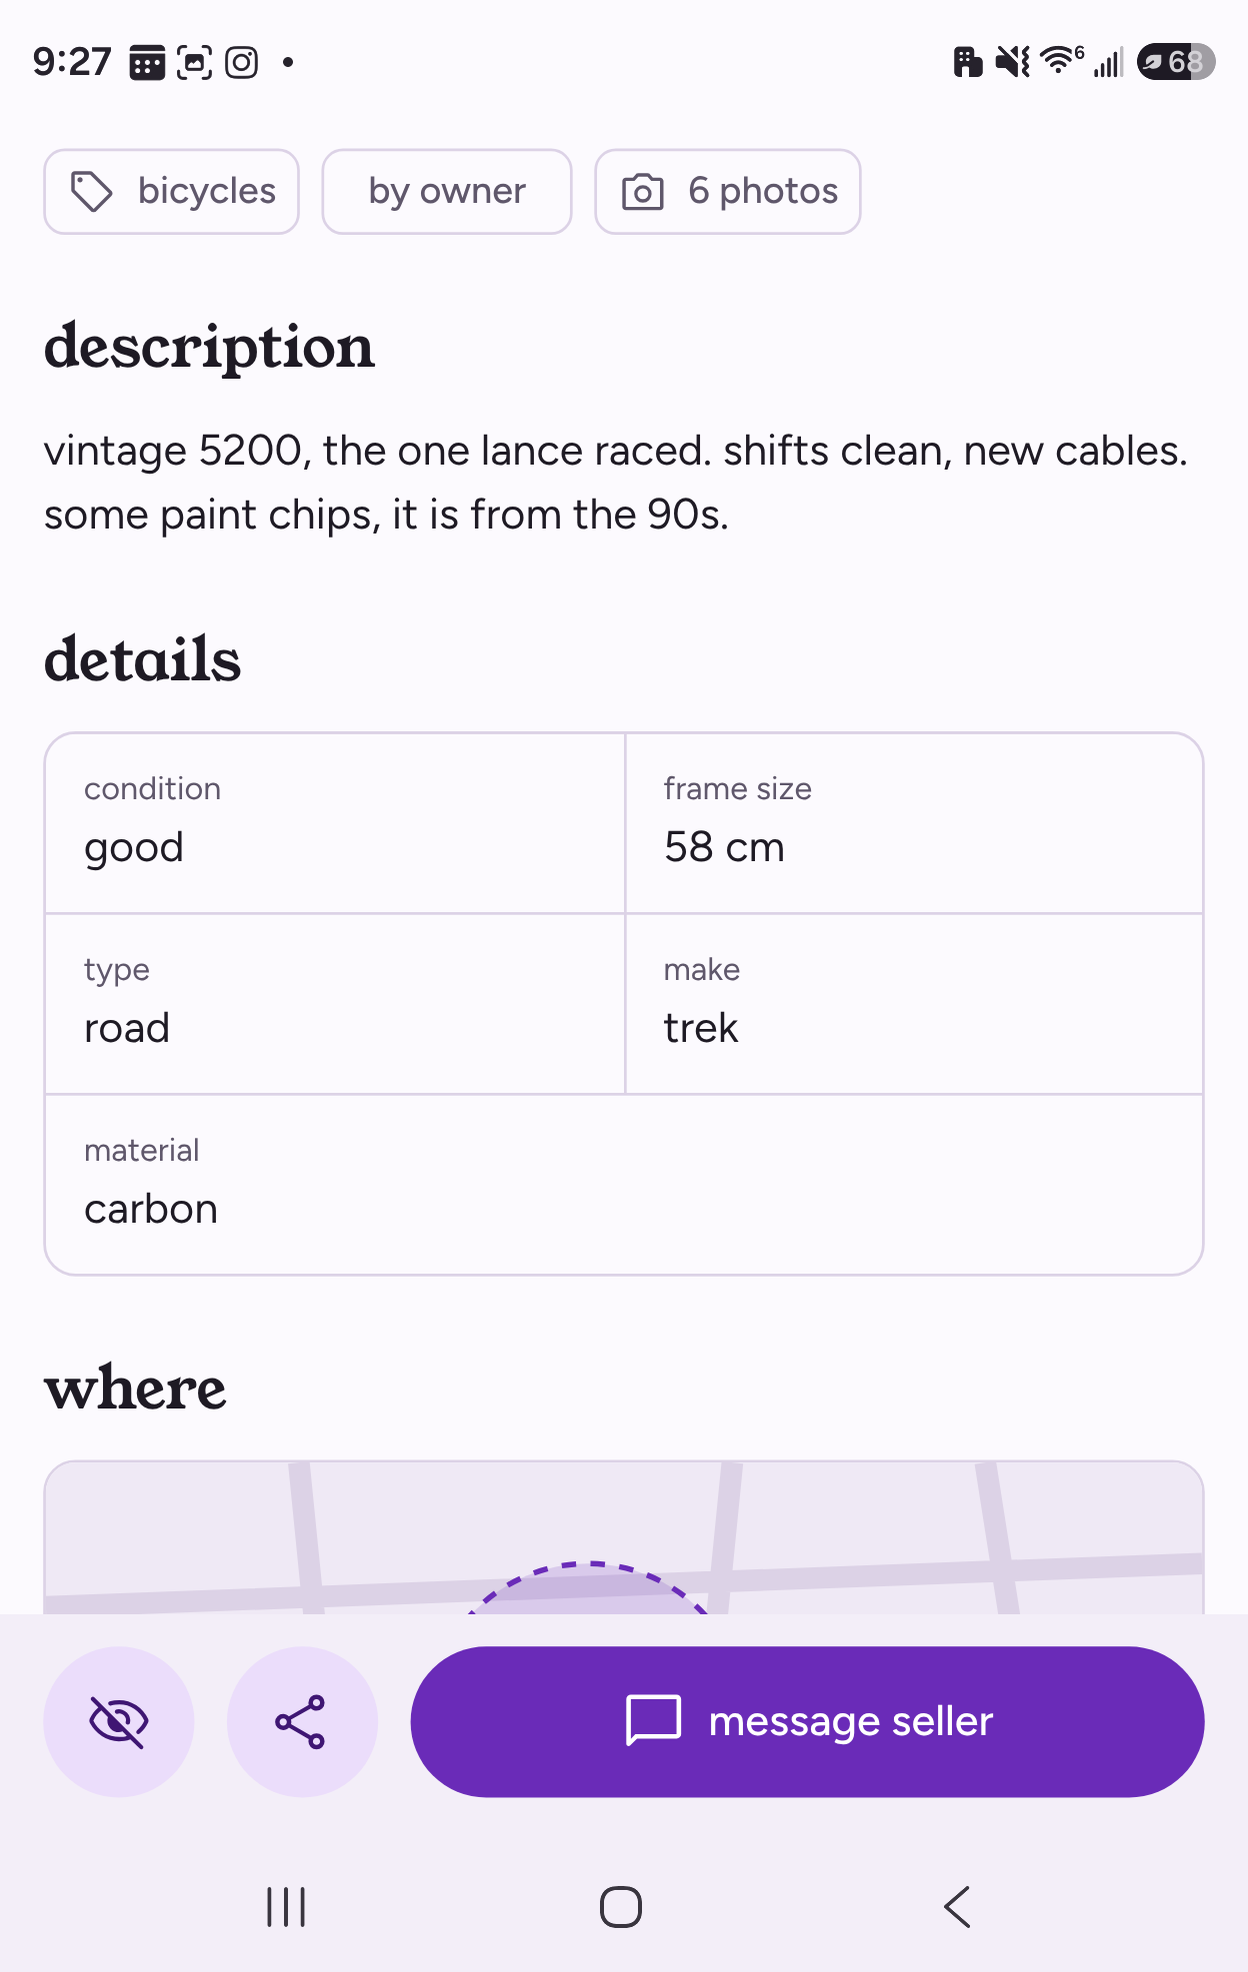
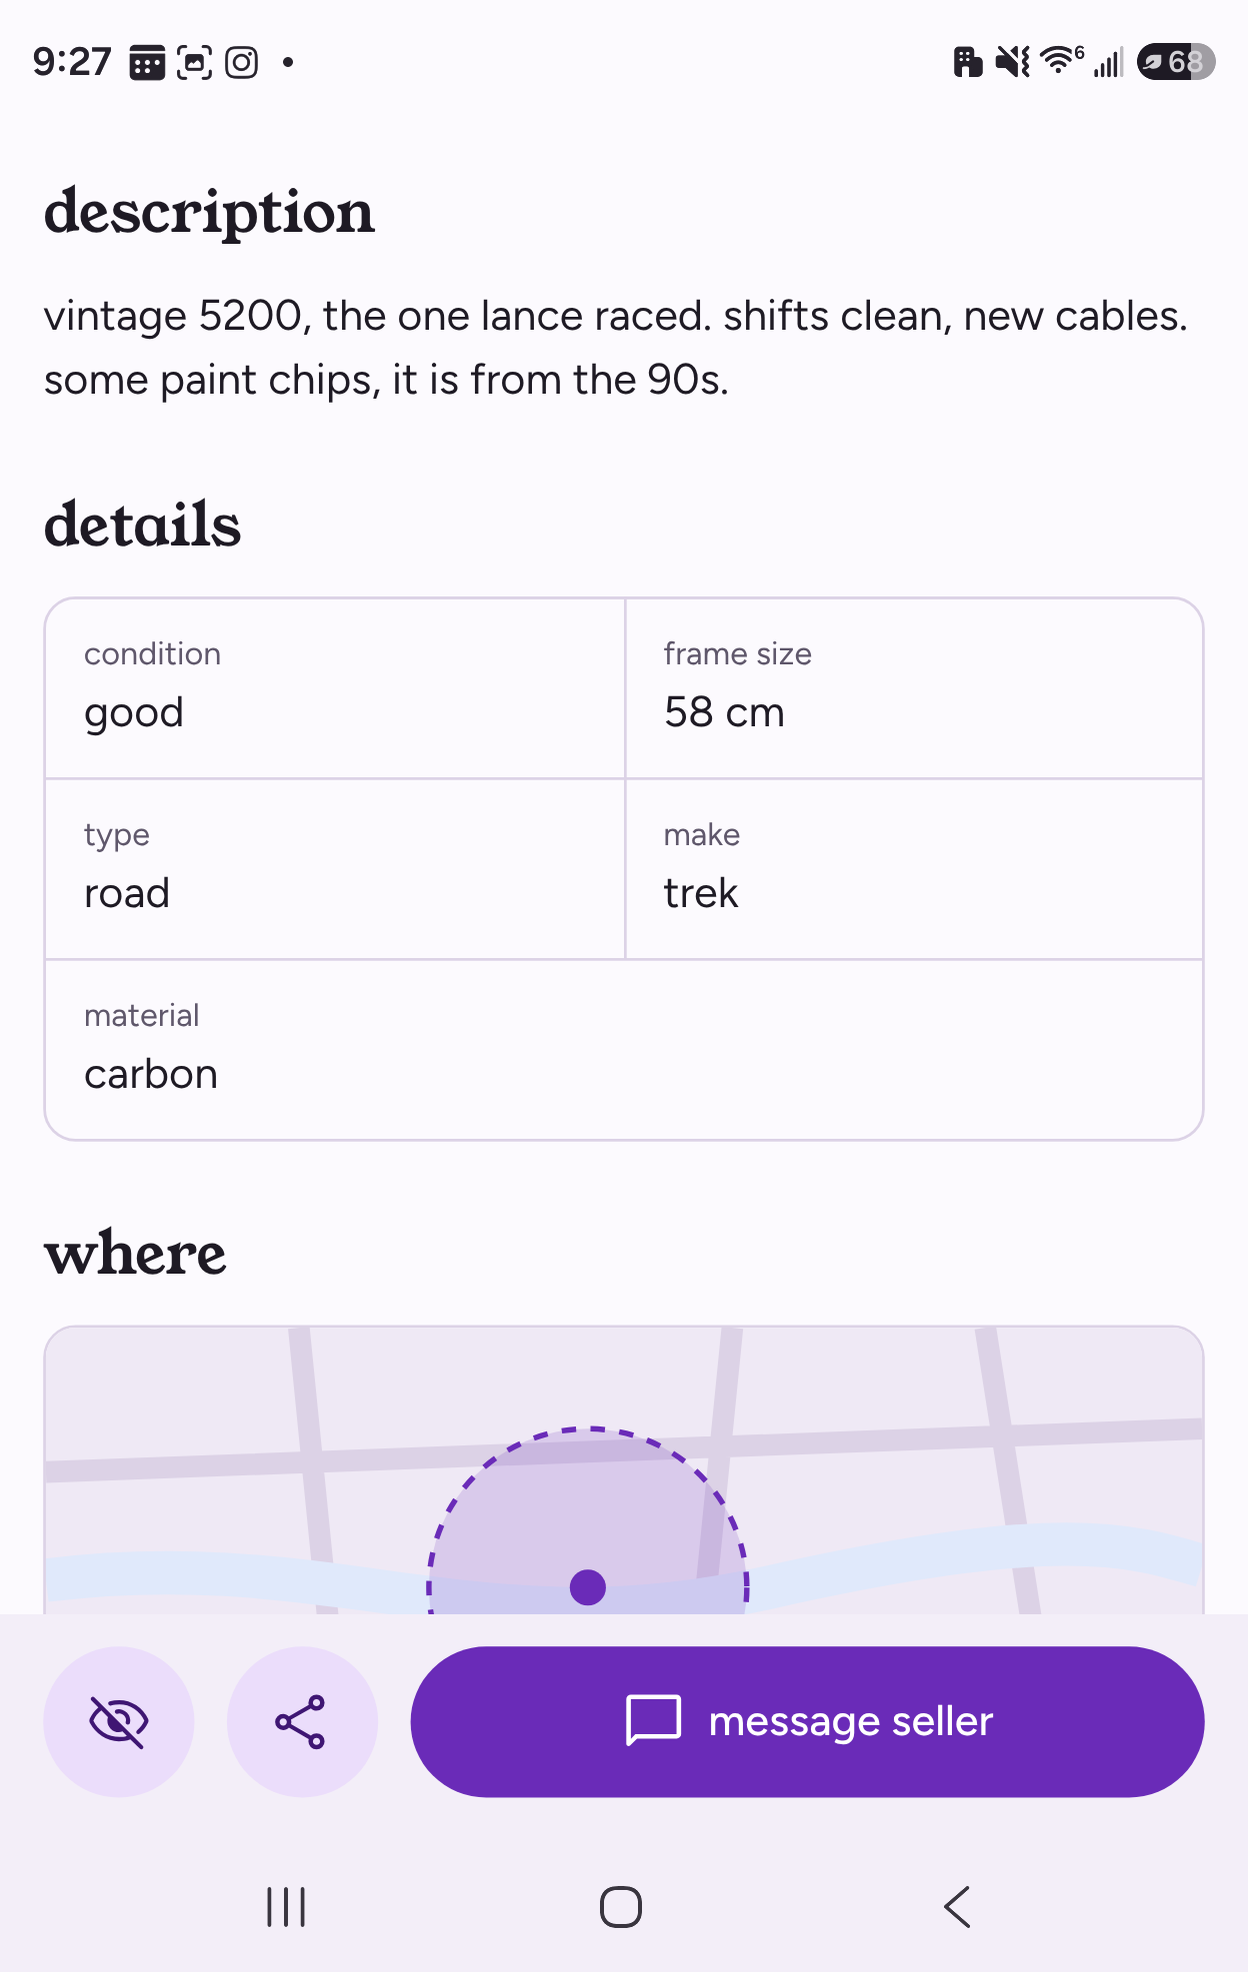
Details slide: description at the top of the shot, callout 3 on similar items
Claude-Session: https://claude.ai/code/session_01H3xU87F2bRsPtLC5hugNNH

diff --git a/docs/presentation-outline.md b/docs/presentation-outline.md
@@ -130,7 +130,7 @@ A new layout: four redesign screenshots with the view’s name under each, and n
 - **Screens:** today [25](audit-screens/25-detail-specs.jpg); redesign `14b-detail-specs`, `14e-detail-similar`
 - Description first, details below / **The seller’s own words, then condition, frame size, make and more in a grid**
 - Where, kept / **A map to easily understand where the item is**
-- More to explore / **Similar items, and a small nudge to post your own**
+- Similar items, right at the bottom / **Not quite right? The next option is one tap away**
 
 ### 22. A measured step toward more trust
 - **Screens:** today [27](audit-screens/27-detail-overflow-sheet.jpg); redesign `15c-far-below-typical`, `15d-seller-report-safety-verified` (both the $50 choppers)
